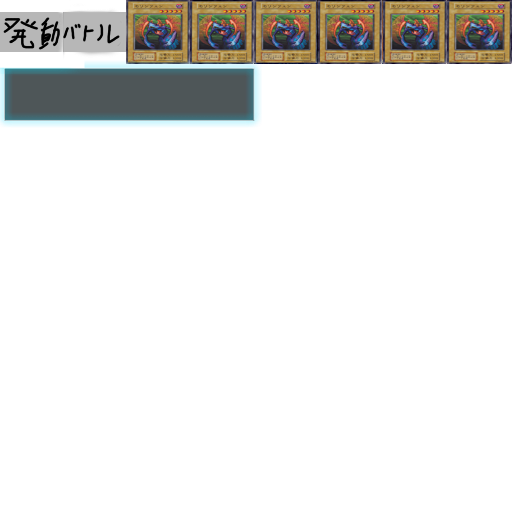
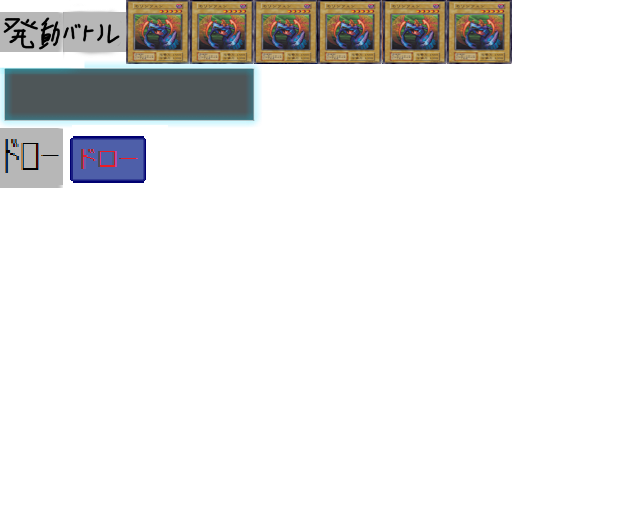
同期用

Changed region(s): [[0.0, 0.0, 1.0, 0.25], [0.0, 0.25, 0.25, 0.375], [0.0, 0.1562, 0.0312, 0.2188]]

diff --git a/Main/Main/Deck.cpp b/Main/Main/Deck.cpp
@@ -157,12 +157,14 @@ void CObjDekc::Action()
 		Start = true;
 	}
 
-	if (mou->m_mouse_x>1083.0f&&mou->m_mouse_x<1175.0f 
-		&&mou->m_mouse_y<860.0f&&mou->m_mouse_y<860.0f&&
-		pos->PTrun == false && m_f2 == true&&m_l==true)
+	if (mou->m_mouse_x>1104.0f&&mou->m_mouse_x<1170.0f 
+		&&mou->m_mouse_y>700.0f&&mou->m_mouse_y<764.0f&&
+		pos->PTrun == false && m_f2 == true&&m_l==true
+		&&car->Button2==true)
 	{
 		Turn = true;
 		m_f2 = false;
+		car->Button2 = false;
 
 	}
 	else
@@ -174,6 +176,7 @@ void CObjDekc::Action()
 	{
 		pos->PTrun = false;
 		m_f2 = false;
+		car->Button2 = true;
 
 	}
 	else

diff --git a/Main/Main/Card.h b/Main/Main/Card.h
@@ -20,6 +20,8 @@ public:
 	int Bat;
 	int Bat2;
 
+	bool Button2;
+	 
 private:
 	void Cardname();
 	void Effect(int _Cnanber,bool *When,bool *Play,bool *Indu,int Position);
